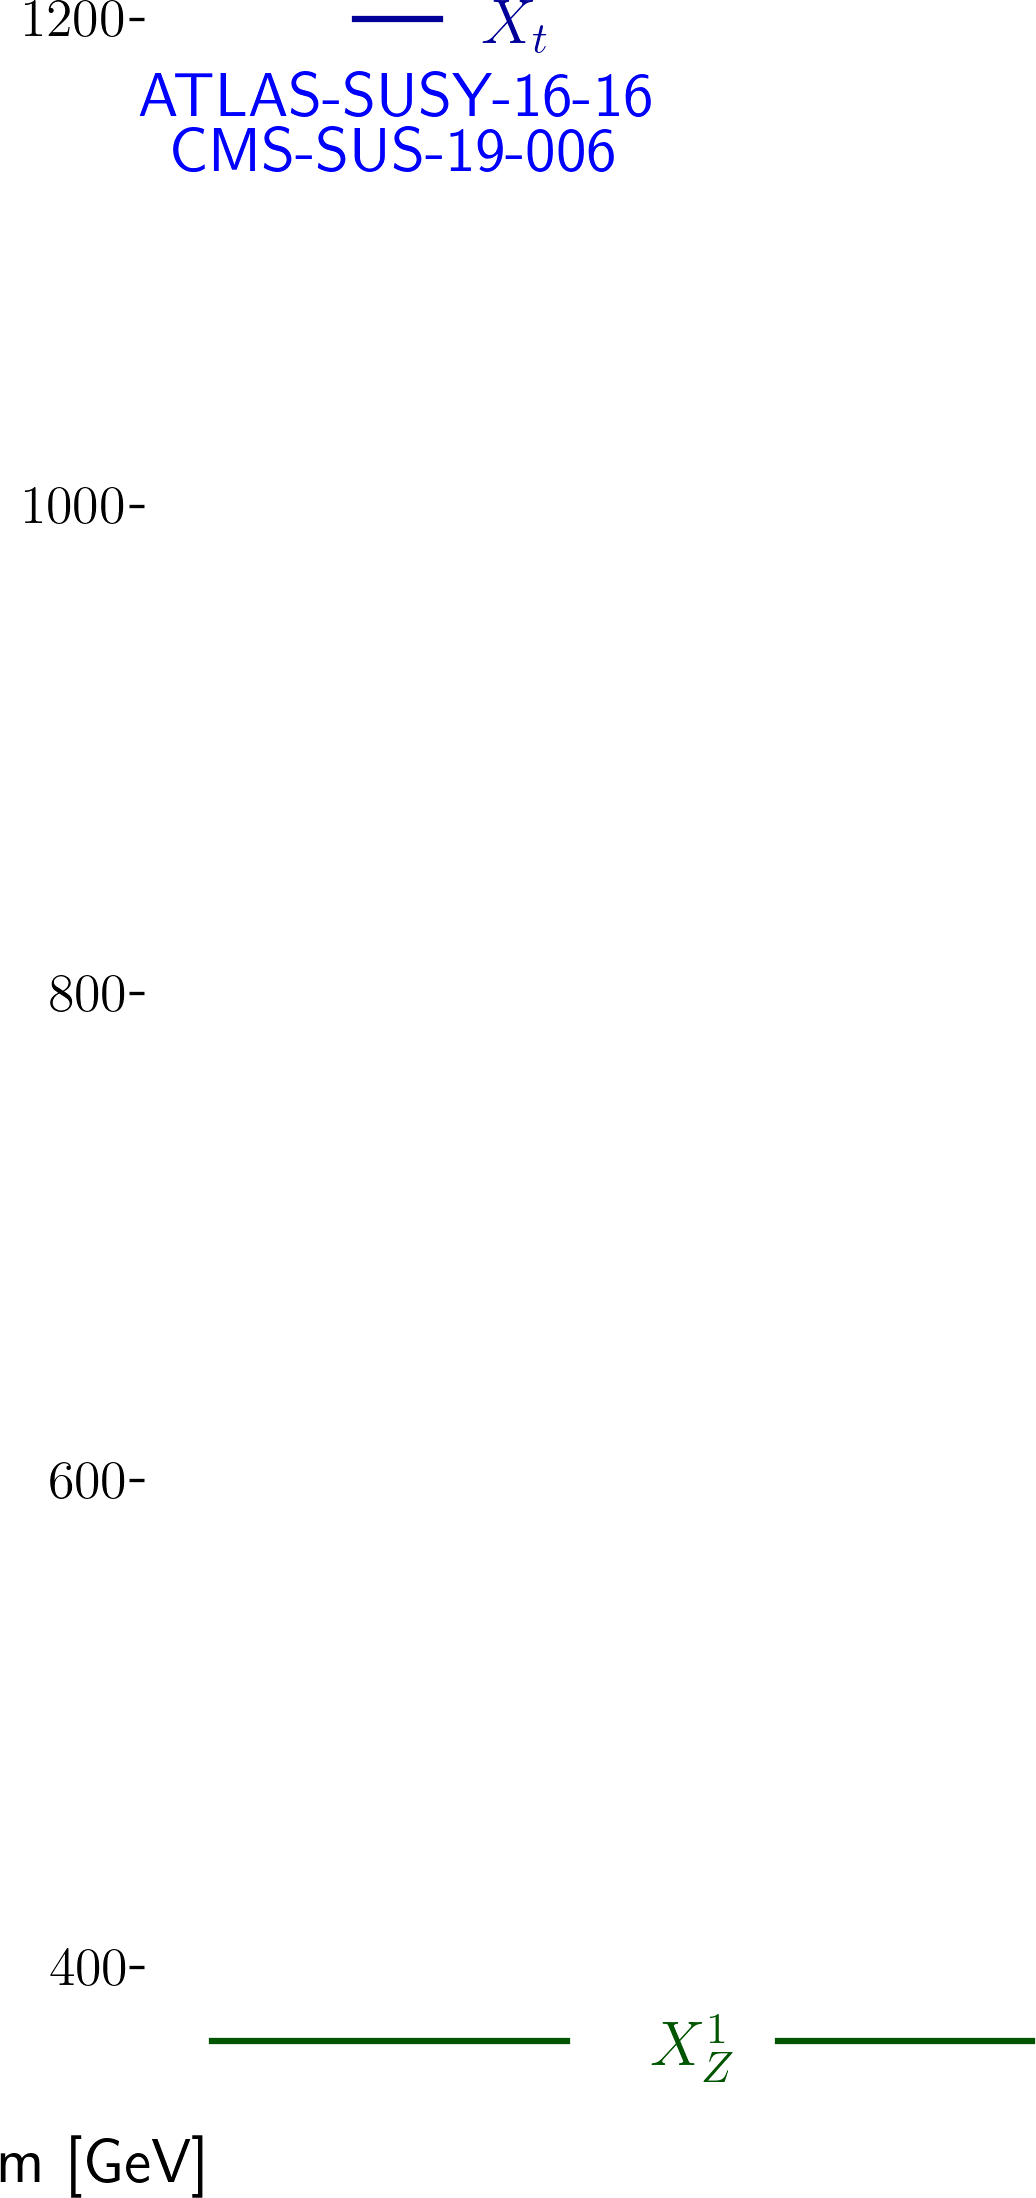
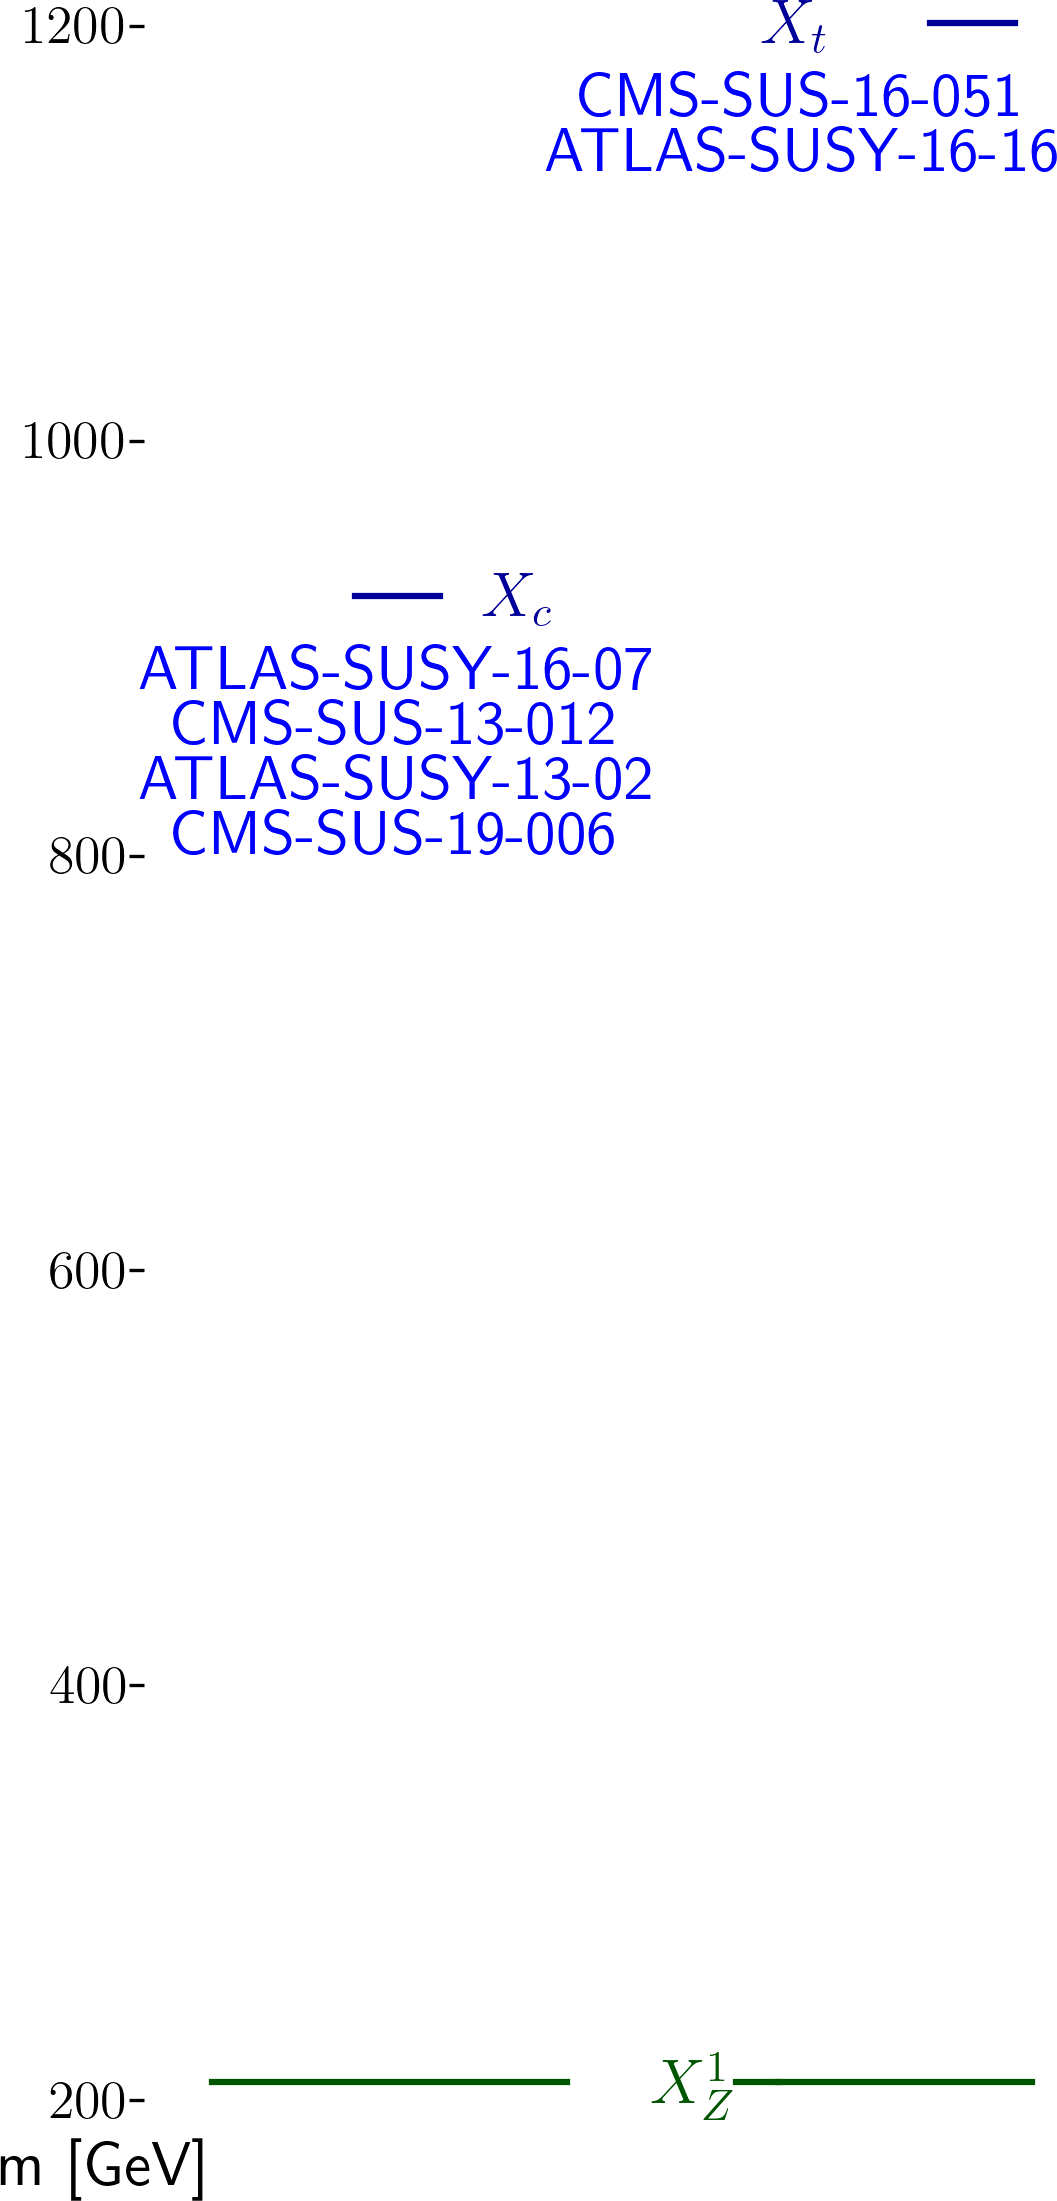
automated update by plotHiscore.py to /scratch-cbe/users/wolfgan.waltenberger/git/smodels.github.io/protomodels

diff --git a/protomodels/2020_PioneerStudy/closure_sampled4/index.html b/protomodels/2020_PioneerStudy/closure_sampled4/index.html
@@ -1,27 +1,31 @@
 <html>
 <body>
 <center>
-<table><td><h1>Current best protomodel: <i>K</i>=9.28</h1><td><img height=60px src=https://smodels.github.io/pics/banner.png></table>
+<table><td><h1>Current best protomodel: <i>K</i>=9.02</h1><td><img height=60px src=https://smodels.github.io/pics/banner.png></table>
 </center>
-<b><a href=./hiscore.slha>ProtoModel</a> <a href=./pmodel.py>(dict)</a> produced with <a href=https://smodels.github.io/docs/Validation124scaled4>database v1.2.4scaled4</a>, combination strategy <a href=./matrix_aggressive.png>aggressive</a> in walker 21 step 445.</b> <i>K</i> plots for: <a href=./M1000022.png?15050431>X<sub>Z</sub><sup>1</sup></a>, <a href=./M1000006.png?15050431>X<sub>t</sub></a>. HPD plots for: <a href=./llhd1000006.png?15050431>X<sub>t</sub></a>. SSM plots for: <a href=./ssm_-1000006_1000006.png?15050431>(x&#772;<sub>t</sub>,X<sub>t</sub>)</a><br>
+<b><a href=./hiscore.slha>ProtoModel</a> <a href=./pmodel.py>(dict)</a> produced with <a href=https://smodels.github.io/docs/Validation124scaled4>database v1.2.4scaled4</a>, combination strategy <a href=./matrix_aggressive.png>aggressive</a> in walker 20 step 711.</b> <i>K</i> plots for: <a href=./M1000022.png?15310360>X<sub>Z</sub><sup>1</sup></a>, <a href=./M1000006.png?15310360>X<sub>t</sub></a>, <a href=./M1000004.png?15310360>X<sub>c</sub></a>. HPD plots for: <a href=./llhd1000006.png?15310360>X<sub>t</sub></a>, <a href=./llhd1000004.png?15310360>X<sub>c</sub></a>. SSM plots for: <a href=./ssm_-1000006_1000006.png?15310360>(x&#772;<sub>t</sub>,X<sub>t</sub>)</a><br>
 <table width=80%>
 <tr><td>
-<br><b>11 predictions available. Highest r values are:</b><br><ul>
-<li><a href=http://cms-results.web.cern.ch/cms-results/public-results/publications/SUS-16-050/index.html>CMS-SUS-16-050</a>:T2tt r=1.30, r<sub>exp</sub>=1.18<br>
-<li><a href=http://cms-results.web.cern.ch/cms-results/public-results/publications/SUS-16-049/index.html>CMS-SUS-16-049</a>:T2tt r=1.15, r<sub>exp</sub>=1.16<br>
-<li><a href=http://cms-results.web.cern.ch/cms-results/public-results/publications/SUS-16-051/index.html>CMS-SUS-16-051</a>:T2tt r=0.75, r<sub>exp</sub>=0.69<br>
-<li><a href=https://atlas.web.cern.ch/Atlas/GROUPS/PHYSICS/PAPERS/SUSY-2016-15/>ATLAS-SUSY-2016-15</a>:T2tt r=0.73, r<sub>exp</sub>=N/A<br>
-<li><a href=http://cms-results.web.cern.ch/cms-results/public-results/publications/SUS-16-036/index.html>CMS-SUS-16-036</a>:T2tt r=0.67, r<sub>exp</sub>=0.75<br>
+<br><b>24 predictions available. Highest r values are:</b><br><ul>
+<li><a href=http://cms-results.web.cern.ch/cms-results/public-results/publications/SUS-19-006/index.html>CMS-SUS-19-006</a>:T2tt r=0.72, r<sub>exp</sub>=N/A<br>
+<li><a href=http://cms-results.web.cern.ch/cms-results/public-results/publications/SUS-16-050/index.html>CMS-SUS-16-050</a>:T2tt r=0.67, r<sub>exp</sub>=N/A<br>
+<li><a href=http://cms-results.web.cern.ch/cms-results/public-results/publications/SUS-16-049/index.html>CMS-SUS-16-049</a>:T2tt r=0.65, r<sub>exp</sub>=N/A<br>
+<li><a href=http://cms-results.web.cern.ch/cms-results/public-results/publications/SUS-16-036/index.html>CMS-SUS-16-036</a>:T2tt r=0.53, r<sub>exp</sub>=N/A<br>
+<li><a href=https://atlas.web.cern.ch/Atlas/GROUPS/PHYSICS/PAPERS/SUSY-2016-26/>ATLAS-SUSY-2016-26</a>:T2cc r=0.51, r<sub>exp</sub>=N/A<br>
 </ul>
 <td><br><b>K values without analyses: (contribution)</b><br>
 <ul>
-<li> <a href=http://cms-results.web.cern.ch/cms-results/public-results/publications/SUS-19-006/index.html>CMS-SUS-19-006</a>: 4.54 (29%)
-<li> <a href=https://atlas.web.cern.ch/Atlas/GROUPS/PHYSICS/PAPERS/SUSY-2016-16/>ATLAS-SUSY-2016-16</a>: -2.25 (71%)
-<td><img width=600px src=./texdoc.png?1608050431>
-<br><font size=-1>Last updated: Tue Dec 15 17:40:31 2020</font>
+<li> <a href=https://twiki.cern.ch/twiki/bin/view/CMSPublic/PhysicsResultsSUS13012>CMS-SUS-13-012</a>: 1.25 (15%)
+<li> <a href=http://cms-results.web.cern.ch/cms-results/public-results/publications/SUS-19-006/index.html>CMS-SUS-19-006</a>: 1.25 (15%)
+<li> <a href=http://cms-results.web.cern.ch/cms-results/public-results/publications/SUS-16-051/index.html>CMS-SUS-16-051</a>: 1.25 (15%)
+<li> <a href=https://atlas.web.cern.ch/Atlas/GROUPS/PHYSICS/PAPERS/SUSY-2013-02/>ATLAS-SUSY-2013-02</a>: 0.94 (16%)
+<li> <a href=https://atlas.web.cern.ch/Atlas/GROUPS/PHYSICS/PAPERS/SUSY-2016-07/>ATLAS-SUSY-2016-07</a>: 0.68 (16%)
+<li> <a href=https://atlas.web.cern.ch/Atlas/GROUPS/PHYSICS/PAPERS/SUSY-2016-16/>ATLAS-SUSY-2016-16</a>: -2.65 (23%)
+<td><img width=600px src=./texdoc.png?1608310360>
+<br><font size=-1>Last updated: Fri Dec 18 17:52:40 2020</font>
 </table><table style="width:80%">
-<td width=45%><img height=580px src=./ruler.png?1608050431><td width=55%><img height=380px src=./decays.png?1608050431>
-<font size=-3><iframe type="text/html" height="220px" width="100%s" frameborder="0" src="./rawnumbers.html?1608050431"></iframe></font>
+<td width=45%><img height=580px src=./ruler.png?1608310360><td width=55%><img height=380px src=./decays.png?1608310360>
+<font size=-3><iframe type="text/html" height="220px" width="100%s" frameborder="0" src="./rawnumbers.html?1608310360"></iframe></font>
 </table>
 </body>
 </html>

diff --git a/protomodels/2020_PioneerStudy/closure_sampled4/rawnumbers.html b/protomodels/2020_PioneerStudy/closure_sampled4/rawnumbers.html
@@ -1,6 +1,10 @@
 <table>
 <tr><th>Analysis Name</th><th>Type</th><th>Dataset</th><th>Topos</th><th>Observed</th><th>Expected</th><th>Approx &sigma;</th><th>Particles</th><th>Signal</th>
 </tr>
-<tr><td><a href=https://atlas.web.cern.ch/Atlas/GROUPS/PHYSICS/PAPERS/SUSY-2016-16/>ATLAS-SUSY-2016-16</a></td><td>em</td> <td>tN_high</td><td>T2tt</td><td>11</td><td>3.8 +/- 1</td><td style="text-align:right">3.3 &sigma;</td><td style="text-align:right">X<sub>t</sub></td><td style="text-align:right">6</td></tr>
-<tr><td><a href=http://cms-results.web.cern.ch/cms-results/public-results/publications/SUS-19-006/index.html>CMS-SUS-19-006</a></td><td>ul</td> <td>-</td><td>T2tt</td><td> 5.1 fb </td><td> 2.4 fb</td><td style="text-align:right">2.1 &sigma;</td><td style="text-align:right">X<sub>t</sub></td><td style="text-align:right">2.62 fb</td></tr>
+<tr><td><a href=https://atlas.web.cern.ch/Atlas/GROUPS/PHYSICS/PAPERS/SUSY-2013-02/>ATLAS-SUSY-2013-02</a></td><td>em</td> <td>SR3j</td><td>T2</td><td>8</td><td>5 +/- 1.2</td><td style="text-align:right">1.2 &sigma;</td><td style="text-align:right">X<sub>c</sub></td><td style="text-align:right">2</td></tr>
+<tr><td><a href=https://atlas.web.cern.ch/Atlas/GROUPS/PHYSICS/PAPERS/SUSY-2016-07/>ATLAS-SUSY-2016-07</a></td><td>em</td> <td>2j_Meff_1200</td><td>T2</td><td>556</td><td>526 +/- 31</td><td style="text-align:right">0.8 &sigma;</td><td style="text-align:right">X<sub>c</sub></td><td style="text-align:right">39</td></tr>
+<tr><td><a href=https://atlas.web.cern.ch/Atlas/GROUPS/PHYSICS/PAPERS/SUSY-2016-16/>ATLAS-SUSY-2016-16</a></td><td>em</td> <td>tN_high</td><td>T2tt</td><td>9</td><td>3.8 +/- 1</td><td style="text-align:right">2.4 &sigma;</td><td style="text-align:right">X<sub>t</sub></td><td style="text-align:right">4</td></tr>
+<tr><td><a href=https://twiki.cern.ch/twiki/bin/view/CMSPublic/PhysicsResultsSUS13012>CMS-SUS-13-012</a></td><td>ul</td> <td>-</td><td>T2</td><td> 11.0 fb </td><td> 8.3 fb</td><td style="text-align:right">0.6 &sigma;</td><td style="text-align:right">X<sub>c</sub></td><td style="text-align:right">2.66 fb</td></tr>
+<tr><td><a href=http://cms-results.web.cern.ch/cms-results/public-results/publications/SUS-16-051/index.html>CMS-SUS-16-051</a></td><td>ul</td> <td>-</td><td>T2tt</td><td> 6.9 fb </td><td> 4.3 fb</td><td style="text-align:right">1.2 &sigma;</td><td style="text-align:right">X<sub>t</sub></td><td style="text-align:right">2.62 fb</td></tr>
+<tr><td><a href=http://cms-results.web.cern.ch/cms-results/public-results/publications/SUS-19-006/index.html>CMS-SUS-19-006</a></td><td>ul</td> <td>-</td><td>T2</td><td> 33.1 fb </td><td> 9.1 fb</td><td style="text-align:right">5.1 &sigma;</td><td style="text-align:right">X<sub>c</sub></td><td style="text-align:right">23.95 fb</td></tr>
 </table>

diff --git a/protomodels/2020_PioneerStudy/closure_sampled4/pmodel.py b/protomodels/2020_PioneerStudy/closure_sampled4/pmodel.py
@@ -1,1 +1,1 @@
-{'masses': {1000022: 359.683, 1000006: 1189.78}, 'ssmultipliers': {(1000022, 1000022): 1.435, (1000006, 1000006): 1.897, (-1000006, 1000006): 1.897, (-1000006, -1000006): 0.947, (1000006, 1000022): 0.95, (-1000006, 1000022): 2.724}, 'decays': {1000022: {}, 1000006: {(1000022, 6): 1.0}}, 'timestamp': 'Tue Dec 15 17:40:27 2020', 'Z': 3.395, 'K': 9.276, 'walkerid': 21, 'step': 445, 'codever': '1.0', 'dbver': '1.2.4scaled4'}
+{'masses': {1000022: 198.959, 1000006: 1191.343, 1000004: 915.133}, 'ssmultipliers': {(1000022, 1000022): 1.89, (1000006, 1000006): 1.024, (-1000006, 1000006): 1.967, (-1000006, -1000006): 5.06, (1000006, 1000022): 2.352, (-1000006, 1000022): 1.079, (1000004, 1000004): 0.894, (-1000004, 1000004): 0.894, (-1000004, -1000004): 0.894, (1000004, 1000022): 0.907, (-1000004, 1000022): 0.907, (1000004, 1000006): 0.894, (-1000004, 1000006): 0.907, (-1000006, 1000004): 0.907, (-1000006, -1000004): 0.907}, 'decays': {1000022: {}, 1000006: {(1000022, 6): 1.0}, 1000004: {(1000022, 4): 1.0}}, 'timestamp': 'Fri Dec 18 17:52:31 2020', 'Z': 3.546, 'K': 9.022, 'walkerid': 20, 'step': 711, 'codever': '1.0', 'dbver': '1.2.4scaled4'}
